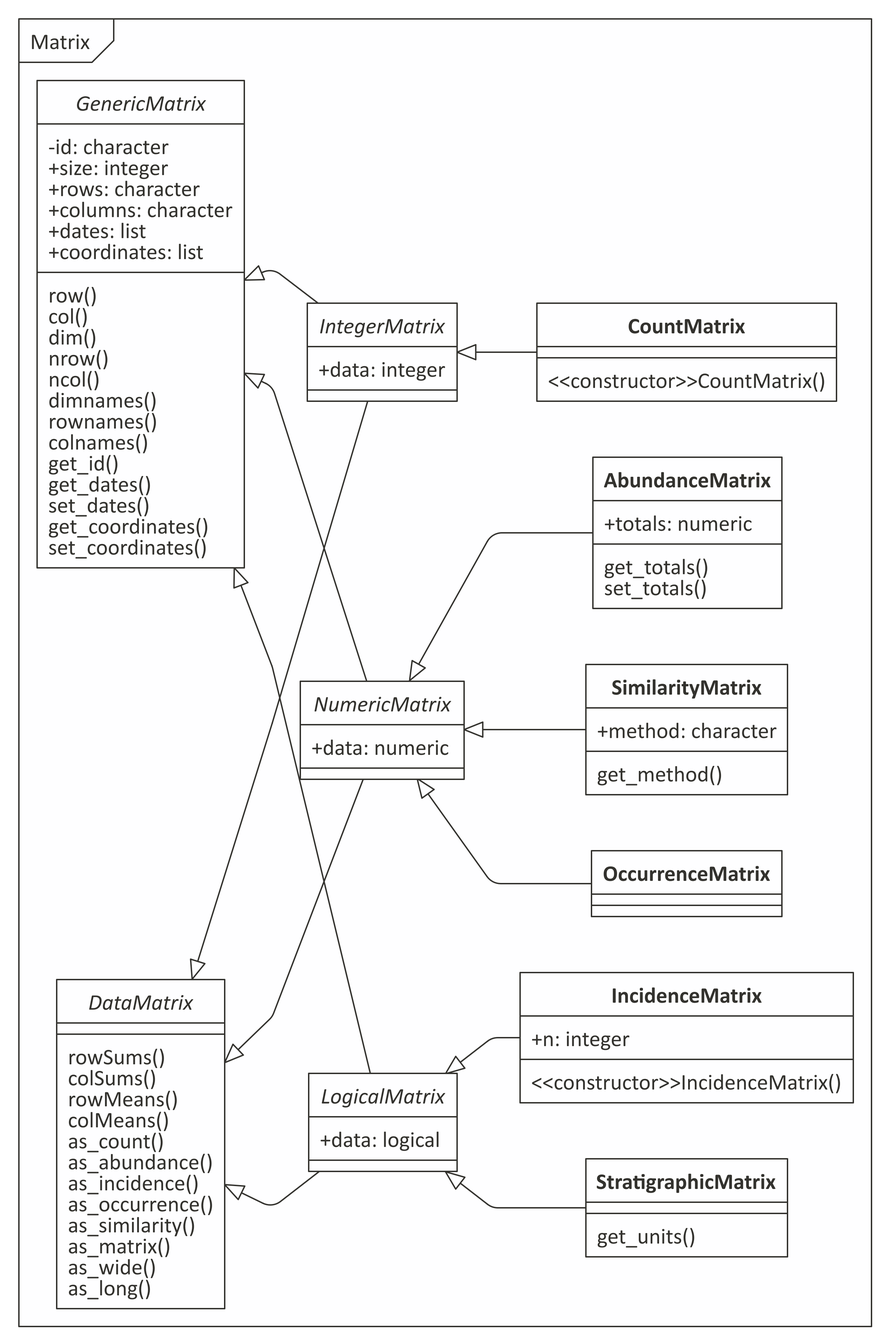
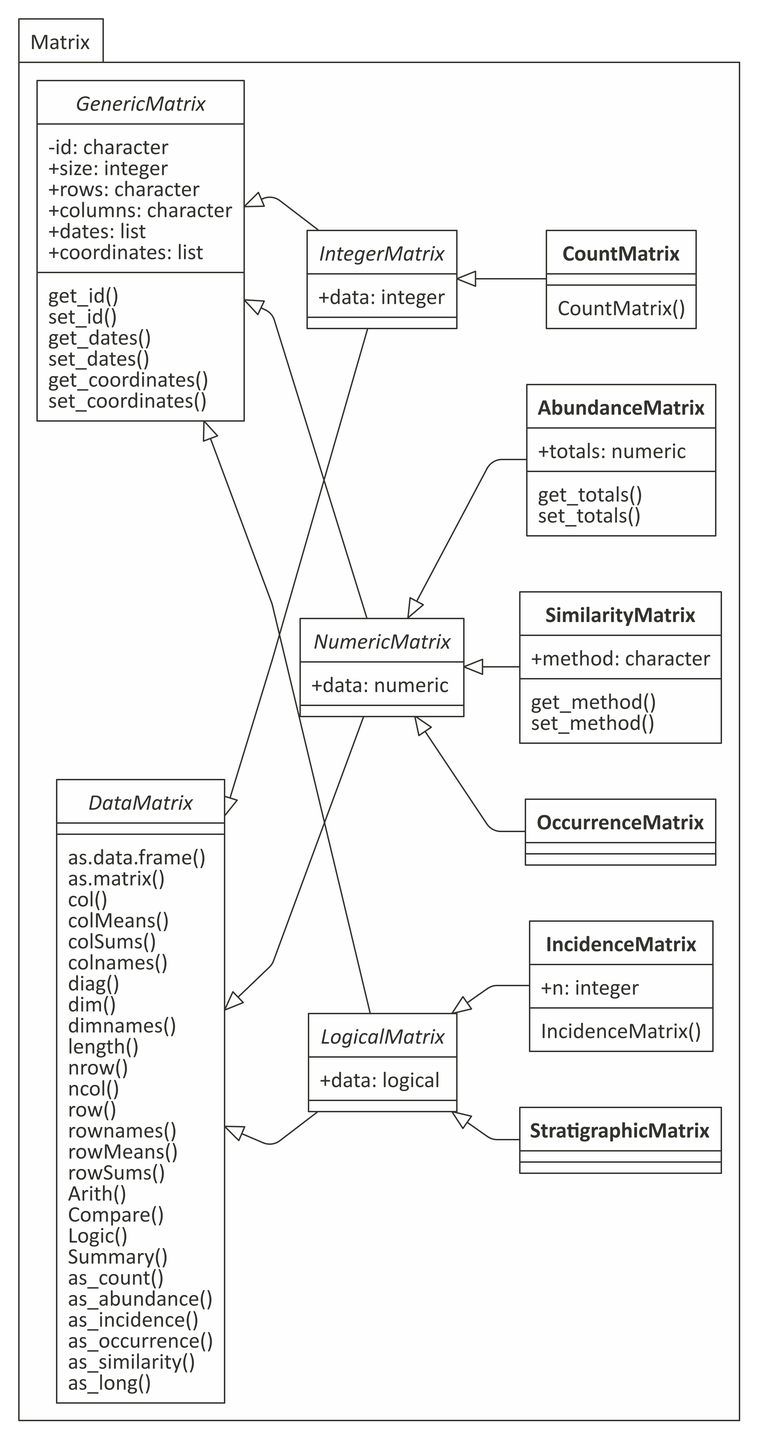
Built site for arkhe: 1.0.0@06db7b9

diff --git a/reference/statistics.html b/reference/statistics.html
@@ -126,73 +126,17 @@
     <p>Computes statistics over <code>DataMatrix</code> margins.</p>
     </div>
 
-    <pre class="usage"><span class='fu'>rowAll</span>(<span class='no'>x</span>, <span class='no'>...</span>)
-
-<span class='fu'>colAll</span>(<span class='no'>x</span>, <span class='no'>...</span>)
-
-<span class='fu'>rowAny</span>(<span class='no'>x</span>, <span class='no'>...</span>)
-
-<span class='fu'>colAny</span>(<span class='no'>x</span>, <span class='no'>...</span>)
-
-<span class='fu'>rowQuantiles</span>(<span class='no'>x</span>, <span class='no'>...</span>)
-
-<span class='fu'>colQuantiles</span>(<span class='no'>x</span>, <span class='no'>...</span>)
-
-<span class='fu'>rowRanges</span>(<span class='no'>x</span>, <span class='no'>...</span>)
-
-<span class='fu'>colRanges</span>(<span class='no'>x</span>, <span class='no'>...</span>)
-
-<span class='fu'>rowRanks</span>(<span class='no'>x</span>, <span class='no'>...</span>)
-
-<span class='fu'>colRanks</span>(<span class='no'>x</span>, <span class='no'>...</span>)
-
-<span class='fu'>rowVars</span>(<span class='no'>x</span>, <span class='no'>...</span>)
-
-<span class='fu'>colVars</span>(<span class='no'>x</span>, <span class='no'>...</span>)
-
-<span class='co'># S4 method for DataMatrix</span>
-<span class='fu'>rowQuantiles</span>(
-  <span class='no'>x</span>,
-  <span class='kw'>probs</span> <span class='kw'>=</span> <span class='fu'><a href='https://rdrr.io/r/base/seq.html'>seq</a></span>(<span class='fl'>0</span>, <span class='fl'>1</span>, <span class='fl'>0.25</span>),
-  <span class='kw'>na.rm</span> <span class='kw'>=</span> <span class='fl'>FALSE</span>,
-  <span class='kw'>names</span> <span class='kw'>=</span> <span class='fl'>TRUE</span>,
-  <span class='kw'>type</span> <span class='kw'>=</span> <span class='fl'>7</span>,
-  <span class='no'>...</span>
-)
-
-<span class='co'># S4 method for DataMatrix</span>
-<span class='fu'>colQuantiles</span>(
-  <span class='no'>x</span>,
-  <span class='kw'>probs</span> <span class='kw'>=</span> <span class='fu'><a href='https://rdrr.io/r/base/seq.html'>seq</a></span>(<span class='fl'>0</span>, <span class='fl'>1</span>, <span class='fl'>0.25</span>),
-  <span class='kw'>na.rm</span> <span class='kw'>=</span> <span class='fl'>FALSE</span>,
-  <span class='kw'>names</span> <span class='kw'>=</span> <span class='fl'>TRUE</span>,
-  <span class='kw'>type</span> <span class='kw'>=</span> <span class='fl'>7</span>,
-  <span class='no'>...</span>
-)
-
-<span class='co'># S4 method for DataMatrix</span>
+    <pre class="usage"><span class='co'># S4 method for DataMatrix</span>
 <span class='fu'><a href='https://rdrr.io/r/base/colSums.html'>rowMeans</a></span>(<span class='no'>x</span>, <span class='kw'>na.rm</span> <span class='kw'>=</span> <span class='fl'>FALSE</span>)
 
 <span class='co'># S4 method for DataMatrix</span>
 <span class='fu'><a href='https://rdrr.io/r/base/colSums.html'>colMeans</a></span>(<span class='no'>x</span>, <span class='kw'>na.rm</span> <span class='kw'>=</span> <span class='fl'>FALSE</span>)
 
 <span class='co'># S4 method for DataMatrix</span>
-<span class='fu'>rowRanges</span>(<span class='no'>x</span>, <span class='kw'>na.rm</span> <span class='kw'>=</span> <span class='fl'>FALSE</span>)
-
-<span class='co'># S4 method for DataMatrix</span>
-<span class='fu'>colRanges</span>(<span class='no'>x</span>, <span class='kw'>na.rm</span> <span class='kw'>=</span> <span class='fl'>FALSE</span>)
-
-<span class='co'># S4 method for DataMatrix</span>
 <span class='fu'><a href='https://rdrr.io/r/base/colSums.html'>rowSums</a></span>(<span class='no'>x</span>, <span class='kw'>na.rm</span> <span class='kw'>=</span> <span class='fl'>FALSE</span>)
 
 <span class='co'># S4 method for DataMatrix</span>
-<span class='fu'><a href='https://rdrr.io/r/base/colSums.html'>colSums</a></span>(<span class='no'>x</span>, <span class='kw'>na.rm</span> <span class='kw'>=</span> <span class='fl'>FALSE</span>)
-
-<span class='co'># S4 method for DataMatrix</span>
-<span class='fu'>rowVars</span>(<span class='no'>x</span>, <span class='kw'>na.rm</span> <span class='kw'>=</span> <span class='fl'>FALSE</span>)
-
-<span class='co'># S4 method for DataMatrix</span>
-<span class='fu'>colVars</span>(<span class='no'>x</span>, <span class='kw'>na.rm</span> <span class='kw'>=</span> <span class='fl'>FALSE</span>)</pre>
+<span class='fu'><a href='https://rdrr.io/r/base/colSums.html'>colSums</a></span>(<span class='no'>x</span>, <span class='kw'>na.rm</span> <span class='kw'>=</span> <span class='fl'>FALSE</span>)</pre>
 
     <h2 class="hasAnchor" id="arguments"><a class="anchor" href="#arguments"></a>Arguments</h2>
     <table class="ref-arguments">
@@ -200,14 +144,6 @@
     <tr>
       <th>x</th>
       <td><p>A <a href='DataMatrix-class.html'>DataMatrix</a> object.</p></td>
-    </tr>
-    <tr>
-      <th>...</th>
-      <td><p>Further parameters to be passed to other methods.</p></td>
-    </tr>
-    <tr>
-      <th>probs, names, type</th>
-      <td><p>See <code><a href='https://rdrr.io/r/stats/quantile.html'>quantile</a></code>.</p></td>
     </tr>
     <tr>
       <th>na.rm</th>
@@ -235,52 +171,18 @@
     <pre class="examples"><div class='input'><span class='co'>## Create count data matrix</span>
 <span class='no'>A</span> <span class='kw'>&lt;-</span> <span class='fu'><a href='CountMatrix-class.html'>CountMatrix</a></span>(<span class='kw'>data</span> <span class='kw'>=</span> <span class='fu'><a href='https://rdrr.io/r/base/sample.html'>sample</a></span>(<span class='fl'>0</span>:<span class='fl'>10</span>, <span class='fl'>100</span>, <span class='fl'>TRUE</span>), <span class='kw'>nrow</span> <span class='kw'>=</span> <span class='fl'>20</span>, <span class='kw'>ncol</span> <span class='kw'>=</span> <span class='fl'>5</span>)
 
-<span class='fu'>rowAll</span>(<span class='no'>A</span>, <span class='kw'>f</span> <span class='kw'>=</span> <span class='no'>is_odd</span>)</div><div class='output co'>#&gt;  row1  row2  row3  row4  row5  row6  row7  row8  row9 row10 row11 row12 row13 
-#&gt; FALSE FALSE FALSE FALSE FALSE FALSE FALSE FALSE FALSE FALSE FALSE FALSE FALSE 
-#&gt; row14 row15 row16 row17 row18 row19 row20 
-#&gt; FALSE FALSE FALSE FALSE FALSE FALSE FALSE </div><div class='input'><span class='fu'>rowAny</span>(<span class='no'>A</span>, <span class='kw'>f</span> <span class='kw'>=</span> <span class='no'>is_odd</span>)</div><div class='output co'>#&gt;  row1  row2  row3  row4  row5  row6  row7  row8  row9 row10 row11 row12 row13 
-#&gt;  TRUE  TRUE  TRUE  TRUE  TRUE  TRUE  TRUE FALSE  TRUE  TRUE  TRUE  TRUE  TRUE 
-#&gt; row14 row15 row16 row17 row18 row19 row20 
-#&gt;  TRUE  TRUE  TRUE  TRUE  TRUE  TRUE  TRUE </div><div class='input'>
-<span class='co'>## Row and column quantiles</span>
-<span class='fu'>rowQuantiles</span>(<span class='no'>A</span>, <span class='kw'>probs</span> <span class='kw'>=</span> <span class='fu'><a href='https://rdrr.io/r/base/c.html'>c</a></span>(<span class='fl'>0.25</span>, <span class='fl'>0.50</span>, <span class='fl'>0.75</span>))</div><div class='output co'>#&gt;     row1 row2 row3 row4 row5 row6 row7 row8 row9 row10 row11 row12 row13 row14
-#&gt; 25%    3    0    2    5    1    2    3    4    1     4     3     1     3     2
-#&gt; 50%    6    7    3    6    8    7    6    4    3     7     6     8     6     4
-#&gt; 75%    9    8    5    6    9    8    8    8    6     8     9     8     7     5
-#&gt;     row15 row16 row17 row18 row19 row20
-#&gt; 25%     2     2     5     6     8     4
-#&gt; 50%     6     6     5     7     9     6
-#&gt; 75%     6     6     7     7    10    10</div><div class='input'><span class='fu'>colQuantiles</span>(<span class='no'>A</span>, <span class='kw'>probs</span> <span class='kw'>=</span> <span class='fu'><a href='https://rdrr.io/r/base/c.html'>c</a></span>(<span class='fl'>0.25</span>, <span class='fl'>0.50</span>, <span class='fl'>0.75</span>))</div><div class='output co'>#&gt;     col1 col2 col3 col4 col5
-#&gt; 25%    1 2.75 5.00 3.00 2.75
-#&gt; 50%    6 4.00 6.50 6.00 6.00
-#&gt; 75%    8 7.25 8.25 8.25 7.25</div><div class='input'>
 <span class='co'>## Row and column means</span>
 <span class='fu'><a href='https://rdrr.io/r/base/colSums.html'>rowMeans</a></span>(<span class='no'>A</span>)</div><div class='output co'>#&gt;  row1  row2  row3  row4  row5  row6  row7  row8  row9 row10 row11 row12 row13 
 #&gt;   6.2   5.0   3.2   5.0   5.6   5.4   5.4   4.8   3.2   5.6   6.0   5.4   5.4 
 #&gt; row14 row15 row16 row17 row18 row19 row20 
 #&gt;   4.6   4.6   4.2   5.0   6.6   8.0   6.6 </div><div class='input'><span class='fu'><a href='https://rdrr.io/r/base/colSums.html'>colMeans</a></span>(<span class='no'>A</span>)</div><div class='output co'>#&gt; col1 col2 col3 col4 col5 
 #&gt; 4.75 4.65 6.30 5.60 5.15 </div><div class='input'>
-<span class='co'>## Row and column ranges</span>
-<span class='fu'>rowRanges</span>(<span class='no'>A</span>)</div><div class='output co'>#&gt;      row1 row2 row3 row4 row5 row6 row7 row8 row9 row10 row11 row12 row13 row14
-#&gt; [1,]    3    0    0    0    0    0    1    0    0     1     3     0     3     2
-#&gt; [2,]   10   10    6    8   10   10    9    8    6     8     9    10     8    10
-#&gt;      row15 row16 row17 row18 row19 row20
-#&gt; [1,]     0     0     0     3     3     3
-#&gt; [2,]     9     7     8    10    10    10</div><div class='input'><span class='fu'>colRanges</span>(<span class='no'>A</span>)</div><div class='output co'>#&gt;      col1 col2 col3 col4 col5
-#&gt; [1,]    0    0    0    0    0
-#&gt; [2,]   10   10   10   10   10</div><div class='input'>
 <span class='co'>## Row and column sums</span>
 <span class='fu'><a href='https://rdrr.io/r/base/colSums.html'>rowSums</a></span>(<span class='no'>A</span>)</div><div class='output co'>#&gt;  row1  row2  row3  row4  row5  row6  row7  row8  row9 row10 row11 row12 row13 
 #&gt;    31    25    16    25    28    27    27    24    16    28    30    27    27 
 #&gt; row14 row15 row16 row17 row18 row19 row20 
 #&gt;    23    23    21    25    33    40    33 </div><div class='input'><span class='fu'><a href='https://rdrr.io/r/base/colSums.html'>colSums</a></span>(<span class='no'>A</span>)</div><div class='output co'>#&gt; col1 col2 col3 col4 col5 
-#&gt;   95   93  126  112  103 </div><div class='input'>
-<span class='co'>## Row and column variances</span>
-<span class='fu'>rowVars</span>(<span class='no'>A</span>)</div><div class='output co'>#&gt;  row1  row2  row3  row4  row5  row6  row7  row8  row9 row10 row11 row12 row13 
-#&gt;  10.7  22.0   5.7   9.0  22.3  17.8  11.3  11.2   7.7   9.3   9.0  20.8   5.3 
-#&gt; row14 row15 row16 row17 row18 row19 row20 
-#&gt;  10.8  12.8   9.2   9.5   6.3   8.5  10.8 </div><div class='input'><span class='fu'>colVars</span>(<span class='no'>A</span>)</div><div class='output co'>#&gt;      col1      col2      col3      col4      col5 
-#&gt; 13.250000  9.397368  8.536842 11.936842  9.607895 </div></pre>
+#&gt;   95   93  126  112  103 </div></pre>
   </div>
   <div class="col-md-3 hidden-xs hidden-sm" id="pkgdown-sidebar">
     <nav id="toc" data-toggle="toc" class="sticky-top">

diff --git a/reference/index.html b/reference/index.html
@@ -222,7 +222,7 @@
       <tr>
         
         <td>
-          <p><code><a href="operator.html">Arith(<i>&lt;DataMatrix&gt;</i>,<i>&lt;DataMatrix&gt;</i>)</a></code> <code><a href="operator.html">Arith(<i>&lt;DataMatrix&gt;</i>,<i>&lt;numeric&gt;</i>)</a></code> <code><a href="operator.html">Compare(<i>&lt;DataMatrix&gt;</i>,<i>&lt;DataMatrix&gt;</i>)</a></code> <code><a href="operator.html">Compare(<i>&lt;DataMatrix&gt;</i>,<i>&lt;numeric&gt;</i>)</a></code> <code><a href="operator.html">Logic(<i>&lt;DataMatrix&gt;</i>,<i>&lt;DataMatrix&gt;</i>)</a></code> <code><a href="operator.html">Logic(<i>&lt;DataMatrix&gt;</i>,<i>&lt;numeric&gt;</i>)</a></code> <code><a href="operator.html">Summary(<i>&lt;DataMatrix&gt;</i>)</a></code> <code><a href="operator.html">rowAll(<i>&lt;DataMatrix&gt;</i>)</a></code> <code><a href="operator.html">colAll(<i>&lt;DataMatrix&gt;</i>)</a></code> <code><a href="operator.html">rowAny(<i>&lt;DataMatrix&gt;</i>)</a></code> <code><a href="operator.html">colAny(<i>&lt;DataMatrix&gt;</i>)</a></code> </p>
+          <p><code><a href="operator.html">Arith(<i>&lt;DataMatrix&gt;</i>,<i>&lt;DataMatrix&gt;</i>)</a></code> <code><a href="operator.html">Arith(<i>&lt;DataMatrix&gt;</i>,<i>&lt;numeric&gt;</i>)</a></code> <code><a href="operator.html">Compare(<i>&lt;DataMatrix&gt;</i>,<i>&lt;DataMatrix&gt;</i>)</a></code> <code><a href="operator.html">Compare(<i>&lt;DataMatrix&gt;</i>,<i>&lt;numeric&gt;</i>)</a></code> <code><a href="operator.html">Logic(<i>&lt;DataMatrix&gt;</i>,<i>&lt;DataMatrix&gt;</i>)</a></code> <code><a href="operator.html">Logic(<i>&lt;DataMatrix&gt;</i>,<i>&lt;numeric&gt;</i>)</a></code> <code><a href="operator.html">Summary(<i>&lt;DataMatrix&gt;</i>)</a></code> </p>
         </td>
         <td><p>Common Operations on Matrix Objects</p></td>
       </tr>
@@ -241,7 +241,7 @@
       <tr>
         
         <td>
-          <p><code><a href="statistics.html">rowAll()</a></code> <code><a href="statistics.html">colAll()</a></code> <code><a href="statistics.html">rowAny()</a></code> <code><a href="statistics.html">colAny()</a></code> <code><a href="statistics.html">rowQuantiles()</a></code> <code><a href="statistics.html">colQuantiles()</a></code> <code><a href="statistics.html">rowRanges()</a></code> <code><a href="statistics.html">colRanges()</a></code> <code><a href="statistics.html">rowRanks()</a></code> <code><a href="statistics.html">colRanks()</a></code> <code><a href="statistics.html">rowVars()</a></code> <code><a href="statistics.html">colVars()</a></code> <code><a href="statistics.html">rowMeans(<i>&lt;DataMatrix&gt;</i>)</a></code> <code><a href="statistics.html">colMeans(<i>&lt;DataMatrix&gt;</i>)</a></code> <code><a href="statistics.html">rowSums(<i>&lt;DataMatrix&gt;</i>)</a></code> <code><a href="statistics.html">colSums(<i>&lt;DataMatrix&gt;</i>)</a></code> </p>
+          <p><code><a href="statistics.html">rowMeans(<i>&lt;DataMatrix&gt;</i>)</a></code> <code><a href="statistics.html">colMeans(<i>&lt;DataMatrix&gt;</i>)</a></code> <code><a href="statistics.html">rowSums(<i>&lt;DataMatrix&gt;</i>)</a></code> <code><a href="statistics.html">colSums(<i>&lt;DataMatrix&gt;</i>)</a></code> </p>
         </td>
         <td><p>Rowwise and Columnwise Statistics</p></td>
       </tr>

diff --git a/reference/operator.html b/reference/operator.html
@@ -145,19 +145,7 @@
 <span class='fu'><a href='https://rdrr.io/r/base/Logic.html'>Logic</a></span>(<span class='no'>e1</span>, <span class='no'>e2</span>)
 
 <span class='co'># S4 method for DataMatrix</span>
-<span class='fu'><a href='https://rdrr.io/r/base/groupGeneric.html'>Summary</a></span>(<span class='no'>x</span>, <span class='kw'>na.rm</span> <span class='kw'>=</span> <span class='fl'>FALSE</span>)
-
-<span class='co'># S4 method for DataMatrix</span>
-<span class='fu'><a href='statistics.html'>rowAll</a></span>(<span class='no'>x</span>, <span class='no'>f</span>, <span class='no'>...</span>, <span class='kw'>na.rm</span> <span class='kw'>=</span> <span class='fl'>FALSE</span>)
-
-<span class='co'># S4 method for DataMatrix</span>
-<span class='fu'><a href='statistics.html'>colAll</a></span>(<span class='no'>x</span>, <span class='no'>f</span>, <span class='no'>...</span>, <span class='kw'>na.rm</span> <span class='kw'>=</span> <span class='fl'>FALSE</span>)
-
-<span class='co'># S4 method for DataMatrix</span>
-<span class='fu'><a href='statistics.html'>rowAny</a></span>(<span class='no'>x</span>, <span class='no'>f</span>, <span class='no'>...</span>, <span class='kw'>na.rm</span> <span class='kw'>=</span> <span class='fl'>FALSE</span>)
-
-<span class='co'># S4 method for DataMatrix</span>
-<span class='fu'><a href='statistics.html'>colAny</a></span>(<span class='no'>x</span>, <span class='no'>f</span>, <span class='no'>...</span>, <span class='kw'>na.rm</span> <span class='kw'>=</span> <span class='fl'>FALSE</span>)</pre>
+<span class='fu'><a href='https://rdrr.io/r/base/groupGeneric.html'>Summary</a></span>(<span class='no'>x</span>, <span class='kw'>na.rm</span> <span class='kw'>=</span> <span class='fl'>FALSE</span>)</pre>
 
     <h2 class="hasAnchor" id="arguments"><a class="anchor" href="#arguments"></a>Arguments</h2>
     <table class="ref-arguments">
@@ -170,14 +158,6 @@
       <th>na.rm</th>
       <td><p>A <code><a href='https://rdrr.io/r/base/logical.html'>logical</a></code> scalar: should missing values
 (including <code>NaN</code>) be omitted from the calculations?</p></td>
-    </tr>
-    <tr>
-      <th>f</th>
-      <td><p>A <code><a href='https://rdrr.io/r/base/logical.html'>logical</a></code> predicate.</p></td>
-    </tr>
-    <tr>
-      <th>...</th>
-      <td><p>Further parameters to be passed to <code>f</code>.</p></td>
     </tr>
     </table>
 

diff --git a/reference/subset.html b/reference/subset.html
@@ -212,7 +212,7 @@ If <code>TRUE</code> (the default), no partial matching is allowed.</p></td>
 <span class='no'>A</span> <span class='kw'>&lt;-</span> <span class='fu'><a href='IncidenceMatrix-class.html'>IncidenceMatrix</a></span>(<span class='kw'>data</span> <span class='kw'>=</span> <span class='fu'><a href='https://rdrr.io/r/base/sample.html'>sample</a></span>(<span class='fl'>0</span>:<span class='fl'>1</span>, <span class='fl'>100</span>, <span class='fl'>TRUE</span>, <span class='fu'><a href='https://rdrr.io/r/base/c.html'>c</a></span>(<span class='fl'>1</span>, <span class='fl'>1</span>/<span class='fl'>3</span>)), <span class='kw'>nrow</span> <span class='kw'>=</span> <span class='fl'>20</span>)
 <span class='co'>## Create a count data matrix</span>
 <span class='no'>B</span> <span class='kw'>&lt;-</span> <span class='fu'><a href='CountMatrix-class.html'>CountMatrix</a></span>(<span class='kw'>data</span> <span class='kw'>=</span> <span class='fu'><a href='https://rdrr.io/r/base/sample.html'>sample</a></span>(<span class='fl'>0</span>:<span class='fl'>10</span>, <span class='fl'>100</span>, <span class='fl'>TRUE</span>), <span class='kw'>nrow</span> <span class='kw'>=</span> <span class='fl'>20</span>)
-<span class='fu'><a href='mutator.html'>get_id</a></span>(<span class='no'>B</span>)</div><div class='output co'>#&gt; [1] "665f280a-b632-4fe5-9472-cc00a821ca6c"</div><div class='input'>
+<span class='fu'><a href='mutator.html'>get_id</a></span>(<span class='no'>B</span>)</div><div class='output co'>#&gt; [1] "9a49ebd7-d874-46b2-a1cd-46b42df93d2a"</div><div class='input'>
 <span class='co'>## Access</span>
 <span class='fu'><a href='https://rdrr.io/r/base/dim.html'>dim</a></span>(<span class='no'>B</span>) <span class='co'># Get the matrix dimensions</span></div><div class='output co'>#&gt; [1] 20  5</div><div class='input'><span class='fu'><a href='https://rdrr.io/r/base/row.html'>row</a></span>(<span class='no'>B</span>) <span class='co'># Get the row indexes</span></div><div class='output co'>#&gt;       [,1] [,2] [,3] [,4] [,5]
 #&gt;  [1,]    1    1    1    1    1

diff --git a/reference/AbundanceMatrix-class.html b/reference/AbundanceMatrix-class.html
@@ -216,7 +216,7 @@ times a given datum occurs in a dataset).</p>
 <span class='no'>A</span> <span class='kw'>&lt;-</span> <span class='fu'><a href='IncidenceMatrix-class.html'>IncidenceMatrix</a></span>(<span class='kw'>data</span> <span class='kw'>=</span> <span class='fu'><a href='https://rdrr.io/r/base/sample.html'>sample</a></span>(<span class='fl'>0</span>:<span class='fl'>1</span>, <span class='fl'>100</span>, <span class='fl'>TRUE</span>, <span class='fu'><a href='https://rdrr.io/r/base/c.html'>c</a></span>(<span class='fl'>1</span>, <span class='fl'>1</span>/<span class='fl'>3</span>)), <span class='kw'>nrow</span> <span class='kw'>=</span> <span class='fl'>20</span>)
 <span class='co'>## Create a count data matrix</span>
 <span class='no'>B</span> <span class='kw'>&lt;-</span> <span class='fu'><a href='CountMatrix-class.html'>CountMatrix</a></span>(<span class='kw'>data</span> <span class='kw'>=</span> <span class='fu'><a href='https://rdrr.io/r/base/sample.html'>sample</a></span>(<span class='fl'>0</span>:<span class='fl'>10</span>, <span class='fl'>100</span>, <span class='fl'>TRUE</span>), <span class='kw'>nrow</span> <span class='kw'>=</span> <span class='fl'>20</span>)
-<span class='fu'><a href='mutator.html'>get_id</a></span>(<span class='no'>B</span>)</div><div class='output co'>#&gt; [1] "9ec894d2-a5c0-45e1-933b-2cdd3d27bec8"</div><div class='input'>
+<span class='fu'><a href='mutator.html'>get_id</a></span>(<span class='no'>B</span>)</div><div class='output co'>#&gt; [1] "8e6de3a2-31fa-45a7-89ce-9168e028c292"</div><div class='input'>
 <span class='co'>## Access</span>
 <span class='fu'><a href='https://rdrr.io/r/base/dim.html'>dim</a></span>(<span class='no'>B</span>) <span class='co'># Get the matrix dimensions</span></div><div class='output co'>#&gt; [1] 20  5</div><div class='input'><span class='fu'><a href='https://rdrr.io/r/base/row.html'>row</a></span>(<span class='no'>B</span>) <span class='co'># Get the row indexes</span></div><div class='output co'>#&gt;       [,1] [,2] [,3] [,4] [,5]
 #&gt;  [1,]    1    1    1    1    1

diff --git a/reference/CountMatrix-class.html b/reference/CountMatrix-class.html
@@ -236,7 +236,7 @@ respectively. If <code>NULL</code> (the default) dimension names will be created
 <span class='no'>A</span> <span class='kw'>&lt;-</span> <span class='fu'><a href='IncidenceMatrix-class.html'>IncidenceMatrix</a></span>(<span class='kw'>data</span> <span class='kw'>=</span> <span class='fu'><a href='https://rdrr.io/r/base/sample.html'>sample</a></span>(<span class='fl'>0</span>:<span class='fl'>1</span>, <span class='fl'>100</span>, <span class='fl'>TRUE</span>, <span class='fu'><a href='https://rdrr.io/r/base/c.html'>c</a></span>(<span class='fl'>1</span>, <span class='fl'>1</span>/<span class='fl'>3</span>)), <span class='kw'>nrow</span> <span class='kw'>=</span> <span class='fl'>20</span>)
 <span class='co'>## Create a count data matrix</span>
 <span class='no'>B</span> <span class='kw'>&lt;-</span> <span class='fu'>CountMatrix</span>(<span class='kw'>data</span> <span class='kw'>=</span> <span class='fu'><a href='https://rdrr.io/r/base/sample.html'>sample</a></span>(<span class='fl'>0</span>:<span class='fl'>10</span>, <span class='fl'>100</span>, <span class='fl'>TRUE</span>), <span class='kw'>nrow</span> <span class='kw'>=</span> <span class='fl'>20</span>)
-<span class='fu'><a href='mutator.html'>get_id</a></span>(<span class='no'>B</span>)</div><div class='output co'>#&gt; [1] "40af5afa-e1d1-4cc3-9613-cc17c512382d"</div><div class='input'>
+<span class='fu'><a href='mutator.html'>get_id</a></span>(<span class='no'>B</span>)</div><div class='output co'>#&gt; [1] "c3bbfb19-07de-4b28-aac1-891b00c2b35d"</div><div class='input'>
 <span class='co'>## Access</span>
 <span class='fu'><a href='https://rdrr.io/r/base/dim.html'>dim</a></span>(<span class='no'>B</span>) <span class='co'># Get the matrix dimensions</span></div><div class='output co'>#&gt; [1] 20  5</div><div class='input'><span class='fu'><a href='https://rdrr.io/r/base/row.html'>row</a></span>(<span class='no'>B</span>) <span class='co'># Get the row indexes</span></div><div class='output co'>#&gt;       [,1] [,2] [,3] [,4] [,5]
 #&gt;  [1,]    1    1    1    1    1

diff --git a/reference/IncidenceMatrix-class.html b/reference/IncidenceMatrix-class.html
@@ -240,7 +240,7 @@ respectively. If <code>NULL</code> (the default) dimension names will be created
 <span class='no'>A</span> <span class='kw'>&lt;-</span> <span class='fu'>IncidenceMatrix</span>(<span class='kw'>data</span> <span class='kw'>=</span> <span class='fu'><a href='https://rdrr.io/r/base/sample.html'>sample</a></span>(<span class='fl'>0</span>:<span class='fl'>1</span>, <span class='fl'>100</span>, <span class='fl'>TRUE</span>, <span class='fu'><a href='https://rdrr.io/r/base/c.html'>c</a></span>(<span class='fl'>1</span>, <span class='fl'>1</span>/<span class='fl'>3</span>)), <span class='kw'>nrow</span> <span class='kw'>=</span> <span class='fl'>20</span>)
 <span class='co'>## Create a count data matrix</span>
 <span class='no'>B</span> <span class='kw'>&lt;-</span> <span class='fu'><a href='CountMatrix-class.html'>CountMatrix</a></span>(<span class='kw'>data</span> <span class='kw'>=</span> <span class='fu'><a href='https://rdrr.io/r/base/sample.html'>sample</a></span>(<span class='fl'>0</span>:<span class='fl'>10</span>, <span class='fl'>100</span>, <span class='fl'>TRUE</span>), <span class='kw'>nrow</span> <span class='kw'>=</span> <span class='fl'>20</span>)
-<span class='fu'><a href='mutator.html'>get_id</a></span>(<span class='no'>B</span>)</div><div class='output co'>#&gt; [1] "8741e3ce-aae9-406e-a909-b4ac0415e64a"</div><div class='input'>
+<span class='fu'><a href='mutator.html'>get_id</a></span>(<span class='no'>B</span>)</div><div class='output co'>#&gt; [1] "215a7826-ad62-4a68-aeac-65f69e1d560a"</div><div class='input'>
 <span class='co'>## Access</span>
 <span class='fu'><a href='https://rdrr.io/r/base/dim.html'>dim</a></span>(<span class='no'>B</span>) <span class='co'># Get the matrix dimensions</span></div><div class='output co'>#&gt; [1] 20  5</div><div class='input'><span class='fu'><a href='https://rdrr.io/r/base/row.html'>row</a></span>(<span class='no'>B</span>) <span class='co'># Get the row indexes</span></div><div class='output co'>#&gt;       [,1] [,2] [,3] [,4] [,5]
 #&gt;  [1,]    1    1    1    1    1

diff --git a/reference/mutator.html b/reference/mutator.html
@@ -258,7 +258,7 @@ number in a matrix-like object, or a factor of column labels.</p></li>
 <span class='no'>A</span> <span class='kw'>&lt;-</span> <span class='fu'><a href='IncidenceMatrix-class.html'>IncidenceMatrix</a></span>(<span class='kw'>data</span> <span class='kw'>=</span> <span class='fu'><a href='https://rdrr.io/r/base/sample.html'>sample</a></span>(<span class='fl'>0</span>:<span class='fl'>1</span>, <span class='fl'>100</span>, <span class='fl'>TRUE</span>, <span class='fu'><a href='https://rdrr.io/r/base/c.html'>c</a></span>(<span class='fl'>1</span>, <span class='fl'>1</span>/<span class='fl'>3</span>)), <span class='kw'>nrow</span> <span class='kw'>=</span> <span class='fl'>20</span>)
 <span class='co'>## Create a count data matrix</span>
 <span class='no'>B</span> <span class='kw'>&lt;-</span> <span class='fu'><a href='CountMatrix-class.html'>CountMatrix</a></span>(<span class='kw'>data</span> <span class='kw'>=</span> <span class='fu'><a href='https://rdrr.io/r/base/sample.html'>sample</a></span>(<span class='fl'>0</span>:<span class='fl'>10</span>, <span class='fl'>100</span>, <span class='fl'>TRUE</span>), <span class='kw'>nrow</span> <span class='kw'>=</span> <span class='fl'>20</span>)
-<span class='fu'>get_id</span>(<span class='no'>B</span>)</div><div class='output co'>#&gt; [1] "f3aa39f7-f04c-485f-807c-87aff52e9203"</div><div class='input'>
+<span class='fu'>get_id</span>(<span class='no'>B</span>)</div><div class='output co'>#&gt; [1] "d27cc51b-6602-4ca9-aa10-254a6db5051d"</div><div class='input'>
 <span class='co'>## Access</span>
 <span class='fu'><a href='https://rdrr.io/r/base/dim.html'>dim</a></span>(<span class='no'>B</span>) <span class='co'># Get the matrix dimensions</span></div><div class='output co'>#&gt; [1] 20  5</div><div class='input'><span class='fu'><a href='https://rdrr.io/r/base/row.html'>row</a></span>(<span class='no'>B</span>) <span class='co'># Get the row indexes</span></div><div class='output co'>#&gt;       [,1] [,2] [,3] [,4] [,5]
 #&gt;  [1,]    1    1    1    1    1

diff --git a/reference/OccurrenceMatrix-class.html b/reference/OccurrenceMatrix-class.html
@@ -211,7 +211,7 @@
 <span class='no'>A</span> <span class='kw'>&lt;-</span> <span class='fu'><a href='IncidenceMatrix-class.html'>IncidenceMatrix</a></span>(<span class='kw'>data</span> <span class='kw'>=</span> <span class='fu'><a href='https://rdrr.io/r/base/sample.html'>sample</a></span>(<span class='fl'>0</span>:<span class='fl'>1</span>, <span class='fl'>100</span>, <span class='fl'>TRUE</span>, <span class='fu'><a href='https://rdrr.io/r/base/c.html'>c</a></span>(<span class='fl'>1</span>, <span class='fl'>1</span>/<span class='fl'>3</span>)), <span class='kw'>nrow</span> <span class='kw'>=</span> <span class='fl'>20</span>)
 <span class='co'>## Create a count data matrix</span>
 <span class='no'>B</span> <span class='kw'>&lt;-</span> <span class='fu'><a href='CountMatrix-class.html'>CountMatrix</a></span>(<span class='kw'>data</span> <span class='kw'>=</span> <span class='fu'><a href='https://rdrr.io/r/base/sample.html'>sample</a></span>(<span class='fl'>0</span>:<span class='fl'>10</span>, <span class='fl'>100</span>, <span class='fl'>TRUE</span>), <span class='kw'>nrow</span> <span class='kw'>=</span> <span class='fl'>20</span>)
-<span class='fu'><a href='mutator.html'>get_id</a></span>(<span class='no'>B</span>)</div><div class='output co'>#&gt; [1] "5b0c9ed9-ec18-41ba-9877-6ccdf13ae15e"</div><div class='input'>
+<span class='fu'><a href='mutator.html'>get_id</a></span>(<span class='no'>B</span>)</div><div class='output co'>#&gt; [1] "c84f8968-0be4-4a39-bc68-caedf753798a"</div><div class='input'>
 <span class='co'>## Access</span>
 <span class='fu'><a href='https://rdrr.io/r/base/dim.html'>dim</a></span>(<span class='no'>B</span>) <span class='co'># Get the matrix dimensions</span></div><div class='output co'>#&gt; [1] 20  5</div><div class='input'><span class='fu'><a href='https://rdrr.io/r/base/row.html'>row</a></span>(<span class='no'>B</span>) <span class='co'># Get the row indexes</span></div><div class='output co'>#&gt;       [,1] [,2] [,3] [,4] [,5]
 #&gt;  [1,]    1    1    1    1    1

diff --git a/articles/arkhe.html b/articles/arkhe.html
@@ -79,7 +79,7 @@
       <h1 data-toc-skip>Manual</h1>
                         <h4 class="author">N. Frerebeau</h4>
             
-            <h4 class="date">2020-05-10</h4>
+            <h4 class="date">2020-05-11</h4>
       
       <small class="dont-index">Source: <a href="https://github.com/nfrerebeau/arkhe/blob/master/vignettes/arkhe.Rmd"><code>vignettes/arkhe.Rmd</code></a></small>
       <div class="hidden name"><code>arkhe.Rmd</code></div>
